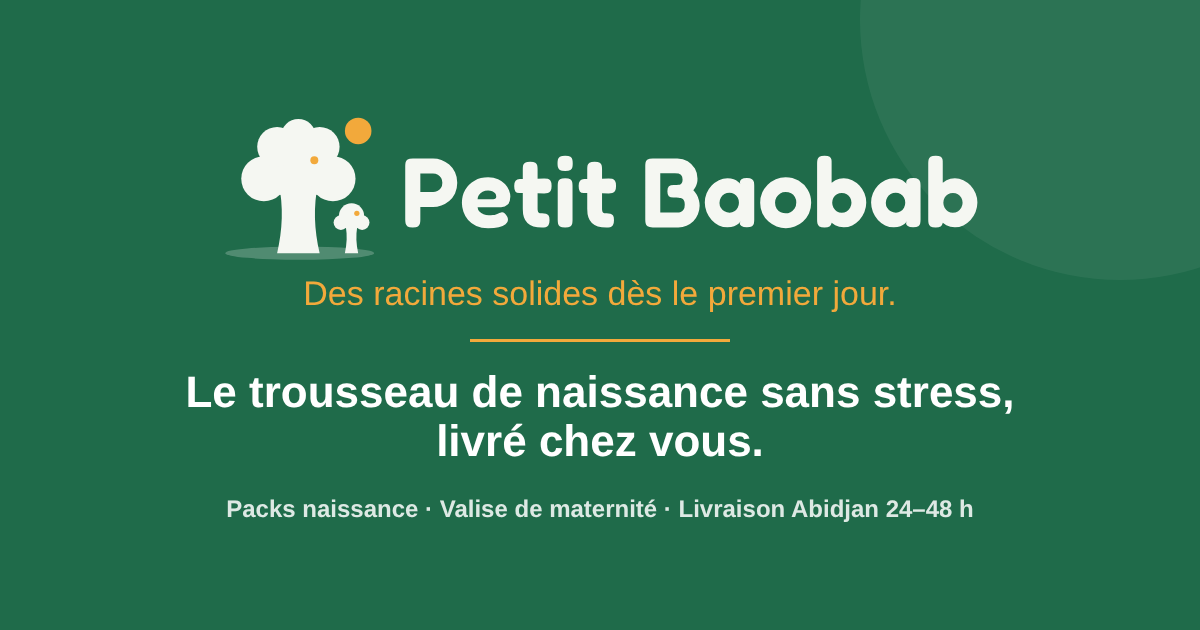
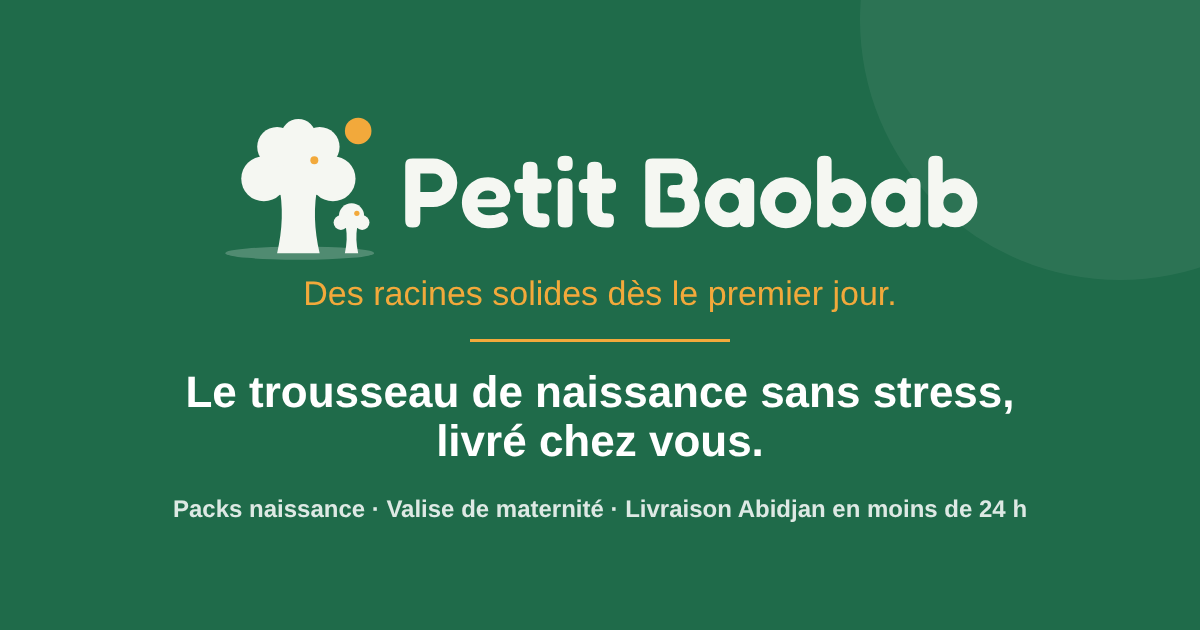
Livraison en moins de 24 h, paiement Wave ou Mobile Money, motion design au toucher
Claude-Session: https://claude.ai/code/session_01FXPZrepqSaMyiZVHaoN4qR

Changed region(s): [[0.1233, 0.7841, 0.8633, 0.8444]]

diff --git a/petit-baobab.html b/petit-baobab.html
@@ -675,6 +675,48 @@ html[data-theme="dark"] .footer .stars circle{opacity:.9;animation:lg-twinkle 2.
 @keyframes btn-shine{from{transform:translateX(-130%)}to{transform:translateX(130%)}}
 @media (prefers-reduced-motion: reduce){.footer .mark > g,.footer .stars circle{animation:none !important}}
 
+/* ===== touch-motion : sur téléphone et tablette, toucher = animer, plus un peu de vie permanente ===== */
+.pb-logo.still,.pb-logo.still *{animation:none !important}
+.hero-logo .pb-logo{cursor:pointer;-webkit-tap-highlight-color:transparent}
+@media (hover:none) and (prefers-reduced-motion: no-preference){
+  .logo .mark > g:nth-of-type(1){transform-origin:104px 18px}
+  .logo.tapped .mark > g:nth-of-type(1){animation:lg-hop .7s var(--spring)}
+  .logo .mark > g:nth-of-type(4){transform-origin:59px 58px}
+  .logo.tapped .mark > g:nth-of-type(4){animation:lg-shake .8s var(--ease)}
+  .logo .mark > g:nth-of-type(6),.logo .mark > g:nth-of-type(7),.logo .mark > g:nth-of-type(8){transform-origin:99px 110px}
+  .logo.tapped .mark > g:nth-of-type(6),.logo.tapped .mark > g:nth-of-type(7),.logo.tapped .mark > g:nth-of-type(8){animation:lg-jump .6s var(--spring) .15s}
+  .baobab-illus > g:nth-of-type(4){transform-origin:59px 58px;animation:lg-sway 6s ease-in-out infinite}
+  .baobab-illus > g:nth-of-type(7){transform-origin:99px 88px;animation:lg-sway 4.5s ease-in-out 1s infinite reverse}
+  .baobab-illus > g:nth-of-type(1){transform-origin:104px 18px;animation:pb-glow 5s ease-in-out infinite}
+  .baobab-illus.tapped > g:nth-of-type(1){animation:lg-hop .8s var(--spring)}
+  .baobab-illus.tapped > g:nth-of-type(6),.baobab-illus.tapped > g:nth-of-type(7),.baobab-illus.tapped > g:nth-of-type(8){transform-origin:99px 110px;animation:lg-jump .7s var(--spring)}
+  .card.tapped .add{animation:lg-quarter .5s var(--spring)}
+  .univ-card.tapped .num{animation:lg-spin .7s var(--spring)}
+  .univ-card.tapped .icon{animation:lg-up .5s var(--ease)}
+  .who-card.tapped .go svg{animation:lg-nudge .5s var(--spring)}
+  .who-card.tapped h3{letter-spacing:.07em;transition:letter-spacing .3s var(--ease)}
+  .chip.tapped,.value.tapped,.gift-box.tapped,.stage.tapped,.btn.tapped{animation:lg-press .45s var(--spring)}
+  .tstep.tapped .num{animation:lg-hop .6s var(--spring)}
+  .value.tapped h3 i{animation:lg-dot .5s var(--spring)}
+  .btn-primary{overflow:hidden}
+  .btn-primary::after{content:"";position:absolute;inset:0;background:linear-gradient(105deg,transparent 35%,rgba(255,255,255,.55) 50%,transparent 65%);transform:translateX(-130%);pointer-events:none}
+  .btn-primary.tapped::after{animation:btn-shine .8s var(--ease)}
+  .fab-wa .icon{animation:lg-ring-idle 7s ease-in-out 4s infinite}
+  .fab-wa.tapped .icon{animation:lg-ring .6s var(--ease)}
+  .fab-top.tapped .icon{animation:lg-up .6s var(--ease)}
+  .footer-scene.tapped .mark > g:nth-of-type(4){animation:lg-shake .8s var(--ease)}
+  .footer-scene.tapped .mark > g:nth-of-type(7){animation:lg-jump .6s var(--spring)}
+  .footer-brand.sun-tap .rays{opacity:1;transform:scale(1)}
+  .footer-brand.sun-tap .lg-sun > circle:first-of-type{transform:translateY(-4px) scale(1.15)}
+  .pb-logo .plx-sun,.pb-logo .plx-tree{transition:transform .6s var(--ease)}
+}
+@keyframes lg-spin{from{transform:rotate(0) scale(1)}60%{transform:rotate(360deg) scale(1.12)}to{transform:rotate(360deg) scale(1)}}
+@keyframes lg-quarter{0%{transform:none}50%{transform:rotate(90deg) scale(1.1)}100%{transform:none}}
+@keyframes lg-nudge{0%,100%{transform:none}50%{transform:translateX(6px)}}
+@keyframes lg-press{0%{transform:none}40%{transform:scale(.96)}100%{transform:none}}
+@keyframes lg-dot{0%,100%{transform:none}50%{transform:scale(1.6)}}
+@keyframes lg-ring-idle{0%,12%,100%{transform:rotate(0)}2%{transform:rotate(-14deg)}5%{transform:rotate(12deg)}8%{transform:rotate(-8deg)}10%{transform:rotate(5deg)}}
+
 .footer p{color:var(--footer-muted);font-size:.93rem;max-width:40ch}
 .footer h4{font-size:1rem;margin:0 0 8px;color:var(--accent);text-transform:uppercase;letter-spacing:.06em;font-size:.82rem}
 .footer ul{list-style:none;margin:0;padding:0;display:grid;gap:6px}
@@ -817,10 +859,10 @@ html[data-theme="dark"] .footer .stars circle{opacity:.9;animation:lg-twinkle 2.
   <ellipse class="seed" cx="198" cy="267" rx="5.5" ry="3.8"/>
 </svg><div class="word"><span style="--i:0">P</span><span style="--i:1">e</span><span style="--i:2">t</span><span style="--i:3">i</span><span style="--i:4">t</span><span style="--i:5">&nbsp;</span><span style="--i:6">B</span><span style="--i:7">a</span><span style="--i:8">o</span><span style="--i:9">b</span><span style="--i:10">a</span><span style="--i:11">b</span></div></div></div>
         <h1 class="plum-title hero-title">Le trousseau de naissance <em>sans stress</em>, livré chez vous.</h1>
-        <p class="lead">Packs naissance par budget, valise de maternité prête à partir et tout l'équipement de bébé, du premier jour aux premiers pas, avec les prix affichés. Vous commandez en ligne, on vous livre en 24 à 48 h.</p>
+        <p class="lead">Packs naissance par budget, valise de maternité prête à partir et tout l'équipement de bébé, du premier jour aux premiers pas, avec les prix affichés. Vous commandez en ligne, on vous livre à Abidjan en moins de 24 h.</p>
         <div class="cta-row"><a href="#packs" class="btn btn-primary" data-action="nav" data-view="packs">Voir les packs naissance</a></div>
       </div>
-      <div class="trust"><span>Livraison 24–48 h à Abidjan</span><span>Paiement à la livraison ou par Wave</span><span>Échange sous 48 h</span></div>
+      <div class="trust"><span>Livraison en moins de 24 h à Abidjan</span><span>Paiement à la livraison, par Wave ou Mobile Money</span><span>Échange sous 48 h</span></div>
     </div>
     <div class="plum-rule"></div>
   </div>
@@ -836,7 +878,7 @@ html[data-theme="dark"] .footer .stars circle{opacity:.9;animation:lg-twinkle 2.
   </div>
 
   <div class="wrap" style="padding-bottom:var(--sp-6)">
-    <div class="promise"><span class="kicker">Notre promesse</span><div class="promise-list"><span>Produits neufs sous emballage d'origine</span><span>Prix affichés, sans surprise</span><span>Conseils sur WhatsApp</span><span>Livraison Abidjan 24–48 h</span><span>Paiement à la livraison ou par Wave</span></div></div>
+    <div class="promise"><span class="kicker">Notre promesse</span><div class="promise-list"><span>Produits neufs sous emballage d'origine</span><span>Prix affichés, sans surprise</span><span>Conseils sur WhatsApp</span><span>Livraison à Abidjan en moins de 24 h</span><span>Paiement à la livraison, par Wave ou Mobile Money</span></div></div>
   </div>
 
   <div class="band">
@@ -872,7 +914,7 @@ html[data-theme="dark"] .footer .stars circle{opacity:.9;animation:lg-twinkle 2.
       <ol class="timeline">
         <li class="tstep"><span class="num">1</span><h3>Choisissez</h3><p>Ajoutez un pack ou des articles au panier, au prix affiché.</p></li>
         <li class="tstep"><span class="num">2</span><h3>Envoyez</h3><p>Votre commande part sur WhatsApp en un clic, avec sa référence. On la confirme avec vous.</p></li>
-        <li class="tstep"><span class="num">3</span><h3>Payez</h3><p>À la livraison, par lien Wave, ou avec un acompte de 50 %.</p></li>
+        <li class="tstep"><span class="num">3</span><h3>Payez</h3><p>À la livraison, par Wave ou Mobile Money, ou avec un acompte de 50 %.</p></li>
         <li class="tstep"><span class="num">4</span><h3>Recevez</h3><p>Livraison à domicile ou au bureau, dans toutes les communes d'Abidjan.</p></li>
       </ol>
     </div>
@@ -941,8 +983,8 @@ html[data-theme="dark"] .footer .stars circle{opacity:.9;animation:lg-twinkle 2.
         <ul class="work">
           <li><strong>Vous choisissez</strong>Les prix sont affichés, le contenu des packs est détaillé article par article.</li>
           <li><strong>On confirme avec vous</strong>Votre commande part sur WhatsApp avec sa référence. On valide ensemble les coloris et le créneau de livraison.</li>
-          <li><strong>Vous payez simplement</strong>À la livraison, par lien Wave, ou avec un acompte de 50 % et le solde à la réception.</li>
-          <li><strong>On livre vite</strong>En 24 à 48 h dans toutes les communes d'Abidjan, offert dès 100 000 FCFA, et par compagnie de transport dans le reste du pays.</li>
+          <li><strong>Vous payez simplement</strong>À la livraison, par Wave ou Mobile Money, ou avec un acompte de 50 % et le solde à la réception.</li>
+          <li><strong>On livre vite</strong>En moins de 24 h dans toutes les communes d'Abidjan, offert dès 100 000 FCFA, et par compagnie de transport dans le reste du pays.</li>
         </ul>
       </div>
     </div>
@@ -1144,10 +1186,10 @@ html[data-theme="dark"] .footer .stars circle{opacity:.9;animation:lg-twinkle 2.
     <div class="section-head"><h2>Questions fréquentes</h2></div>
     <details><summary>Comment passer commande ?<svg class="icon"><use href="#i-chev"/></svg></summary><p>Ajoutez vos articles au panier, puis cliquez sur « Envoyer la commande sur WhatsApp ». Le récapitulatif s'ouvre dans WhatsApp avec sa référence, vous n'avez plus qu'à l'envoyer. On vous répond pour confirmer les couleurs, les modèles et l'heure de livraison.</p></details>
     <details><summary>Puis-je modifier ou annuler ma commande ?<svg class="icon"><use href="#i-chev"/></svg></summary><p>Oui, dans les 24 heures qui suivent la commande : écrivez-nous sur WhatsApp avec votre référence (elle commence par PB-). Passé ce délai, la commande est en préparation ; un acompte déjà versé reste acquis si l'annulation vient de vous.</p></details>
-    <details><summary>Comment fonctionne l'acompte de 50 % ?<svg class="icon"><use href="#i-chev"/></svg></summary><p>Vous payez la moitié du total par lien Wave au moment de la commande, ce qui la réserve, puis le solde au livreur à la remise du colis. C'est pratique pour les gros articles comme un lit ou une poussette.</p></details>
-    <details><summary>Comment payer par Wave depuis le lien ?<svg class="icon"><use href="#i-chev"/></svg></summary><p>Ouvrez le lien reçu sur WhatsApp, le montant est déjà rempli, validez avec votre code Wave, puis envoyez-nous la capture d'écran de confirmation. Pas de compte Wave ? Dites-le nous, on vous propose un autre moyen.</p></details>
+    <details><summary>Comment fonctionne l'acompte de 50 % ?<svg class="icon"><use href="#i-chev"/></svg></summary><p>Vous payez la moitié du total par Wave ou Mobile Money au moment de la commande, ce qui la réserve, puis le solde au livreur à la remise du colis. C'est pratique pour les gros articles comme un lit ou une poussette.</p></details>
+    <details><summary>Comment payer à distance, par Wave ou Mobile Money ?<svg class="icon"><use href="#i-chev"/></svg></summary><p>On vous envoie sur WhatsApp le montant exact et le numéro à payer. Par Wave, ouvrez le lien reçu, le montant est déjà rempli, validez avec votre code. Par Orange Money, MTN MoMo ou Moov Money, faites le transfert vers notre numéro. Dans les deux cas, envoyez-nous la capture d'écran de confirmation.</p></details>
     <details><summary>Puis-je modifier le contenu d'un pack ?<svg class="icon"><use href="#i-chev"/></svg></summary><p>Oui. Précisez-le dans le message WhatsApp (par exemple remplacer les biberons par des bodys en plus). On ajuste le prix si nécessaire.</p></details>
-    <details><summary>Je vis à l'étranger, comment offrir un trousseau ?<svg class="icon"><use href="#i-chev"/></svg></summary><p>Choisissez le pack, cochez « C'est un cadeau » dans la commande et indiquez les coordonnées de la maman. On vous envoie un lien de paiement ; si vous n'avez pas de compte Wave, on vous indique sur WhatsApp les autres moyens de régler.</p></details>
+    <details><summary>Je vis à l'étranger, comment offrir un trousseau ?<svg class="icon"><use href="#i-chev"/></svg></summary><p>Choisissez le pack, cochez « C'est un cadeau » dans la commande et indiquez les coordonnées de la maman. On vous envoie le montant et le moyen de régler sur WhatsApp : Wave, Mobile Money, ou depuis l'étranger Western Union et Ria.</p></details>
     <details><summary>Les produits sont-ils neufs ?<svg class="icon"><use href="#i-chev"/></svg></summary><p>Oui, tous nos articles sont neufs, sous emballage d'origine, avec leurs notices.</p></details>
     <details><summary>Livrez-vous hors d'Abidjan ?<svg class="icon"><use href="#i-chev"/></svg></summary><p>Oui, partout en Côte d'Ivoire par compagnie de transport. Les frais dépendent de la ville ; on vous les confirme sur WhatsApp avant l'envoi.</p></details>
     <details><summary>Et si je ne suis pas là à la livraison ?<svg class="icon"><use href="#i-chev"/></svg></summary><p>Le livreur vous appelle avant d'arriver. Vous pouvez aussi indiquer une autre personne (mari, sœur, gardien) qui réceptionnera le colis.</p></details>
@@ -1175,9 +1217,9 @@ html[data-theme="dark"] .footer .stars circle{opacity:.9;animation:lg-twinkle 2.
         <div class="field">
           <span class="legend">Paiement</span>
           <div class="choices">
-            <label class="choice"><input type="radio" name="pay" id="pay-cod" value="livraison" checked><span><strong>À la livraison</strong><small>En espèces ou par Wave, au livreur.</small></span></label>
-            <label class="choice"><input type="radio" name="pay" id="pay-wave" value="wave"><span><strong>Par lien Wave, avant la livraison</strong><small>On vous envoie le lien du montant exact sur WhatsApp.</small></span></label>
-            <label class="choice"><input type="radio" name="pay" id="pay-deposit" value="acompte"><span><strong>Acompte de <span id="dep-pct">50</span> % par Wave, solde à la livraison</strong><small id="dep-note">Votre commande est réservée dès l'acompte reçu. Conseillé pour les gros articles.</small></span></label>
+            <label class="choice"><input type="radio" name="pay" id="pay-cod" value="livraison" checked><span><strong>À la livraison</strong><small>En espèces, par Wave ou Mobile Money, au livreur.</small></span></label>
+            <label class="choice"><input type="radio" name="pay" id="pay-wave" value="wave"><span><strong>Par Wave ou Mobile Money, avant la livraison</strong><small>On vous envoie le montant exact et le numéro à payer sur WhatsApp.</small></span></label>
+            <label class="choice"><input type="radio" name="pay" id="pay-deposit" value="acompte"><span><strong>Acompte de <span id="dep-pct">50</span> % par Wave ou Mobile Money, solde à la livraison</strong><small id="dep-note">Votre commande est réservée dès l'acompte reçu. Conseillé pour les gros articles.</small></span></label>
           </div>
         </div>
         <label class="toggle"><input type="checkbox" id="f-gift">C'est un cadeau pour une maman (livraison chez elle)</label>
@@ -1220,7 +1262,7 @@ html[data-theme="dark"] .footer .stars circle{opacity:.9;animation:lg-twinkle 2.
     <p class="updated">Dernière mise à jour : <span class="legal-date"></span></p>
     <p>Pour livrer votre commande, nous utilisons votre nom, votre numéro de téléphone et votre adresse de livraison. Ces informations servent uniquement à préparer, livrer et suivre votre commande.</p>
     <p>Nous ne vendons ni ne partageons vos coordonnées avec des tiers, en dehors du livreur qui a besoin de votre adresse et de votre numéro pour vous trouver.</p>
-    <p>Le site ne stocke aucune donnée bancaire. Le paiement se fait à la livraison ou par Wave, en dehors du site.</p>
+    <p>Le site ne stocke aucune donnée bancaire. Le paiement se fait à la livraison, par Wave ou par Mobile Money, en dehors du site.</p>
     <h3>Ce que votre navigateur conserve</h3>
     <p>Votre panier, vos favoris et vos préférences d'affichage sont gardés dans votre navigateur uniquement, sur votre appareil. Rien n'est envoyé à un serveur.</p>
     <p id="privacy-analytics" hidden>Avec votre accord, nous mesurons l'audience du site de façon anonyme. Vous pouvez changer d'avis à tout moment via le lien « Gérer les cookies » en bas de page.</p>
@@ -1237,8 +1279,8 @@ html[data-theme="dark"] .footer .stars circle{opacity:.9;animation:lg-twinkle 2.
     <p class="updated">Dernière mise à jour : <span class="legal-date"></span></p>
     <h3>Prix</h3><p>Les prix sont affichés en francs CFA, toutes taxes comprises. Les frais de livraison s'ajoutent selon la commune et sont indiqués avant l'envoi de la commande.</p>
     <h3>Commande</h3><p>Chaque commande reçoit une référence (PB-…). Une commande est ferme une fois confirmée sur WhatsApp par la boutique ; les articles sont réservés à ce moment-là. Vous pouvez la modifier ou l'annuler dans les 24 heures, sur WhatsApp, avec sa référence.</p>
-    <h3>Paiement</h3><p>À la livraison (espèces ou Wave), avant la livraison par lien de paiement Wave, ou par un acompte de 50 % à la commande et le solde à la livraison. Les commandes hors d'Abidjan et les cadeaux sont payés avant le départ du colis. En cas d'annulation de votre part après versement d'un acompte, celui-ci peut être conservé pour couvrir les frais engagés.</p>
-    <h3>Livraison</h3><p>À Abidjan sous 24 à 48 h après confirmation. Hors Abidjan, par compagnie de transport, selon les délais de celle-ci.</p>
+    <h3>Paiement</h3><p>À la livraison (espèces, Wave ou Mobile Money), avant la livraison par Wave ou Mobile Money, ou par un acompte de 50 % à la commande et le solde à la livraison. Les commandes hors d'Abidjan et les cadeaux sont payés avant le départ du colis. En cas d'annulation de votre part après versement d'un acompte, celui-ci peut être conservé pour couvrir les frais engagés.</p>
+    <h3>Livraison</h3><p>À Abidjan en moins de 24 h après confirmation. Hors Abidjan, par compagnie de transport, selon les délais de celle-ci.</p>
     <h3>Échanges</h3><p>Un article abîmé ou non conforme est échangé sous 48 h après réception, dans son emballage d'origine, sur présentation d'une photo.</p>
     <h3>Contact</h3><p>Pour toute question : WhatsApp au <span class="wa-num"></span>.</p>
     <p>L'utilisation du site lui-même est régie par les <a href="#cgu" class="textlink" data-action="nav" data-view="cgu">Conditions d'utilisation</a>.</p>
@@ -1258,7 +1300,7 @@ html[data-theme="dark"] .footer .stars circle{opacity:.9;animation:lg-twinkle 2.
     <h3>Utilisation du site</h3><p>Le site est destiné à un usage personnel. Il est interdit de copier le catalogue, les photos ou les textes pour les réutiliser ailleurs, d'essayer de perturber le fonctionnement du site, ou d'utiliser les coordonnées qui y figurent pour de la prospection.</p>
     <h3>Propriété des contenus</h3><p>Le nom, les textes et la mise en page du site appartiennent à son éditeur. Les photos et références des articles appartiennent à l'éditeur ou à ses fournisseurs. Toute reproduction demande notre accord écrit.</p>
     <h3>Vos données</h3><p>Votre panier, vos favoris et vos préférences d'affichage restent dans votre navigateur. Les informations que vous nous envoyez pour une commande sont traitées comme décrit dans la <a href="#confidentialite" class="textlink" data-action="nav" data-view="confidentialite">Politique de confidentialité</a>.</p>
-    <h3>Services tiers</h3><p>Le site renvoie vers WhatsApp pour la commande et vers Wave pour le paiement à distance. Ces services ont leurs propres conditions et fonctionnent indépendamment de nous.</p>
+    <h3>Services tiers</h3><p>Le site renvoie vers WhatsApp pour la commande et vers Wave ou les opérateurs de Mobile Money pour le paiement à distance. Ces services ont leurs propres conditions et fonctionnent indépendamment de nous.</p>
     <h3>Comptes clients</h3><p>Lorsque les comptes seront disponibles, chaque personne n'en créera qu'un, avec des informations exactes, et gardera son mot de passe confidentiel. Un compte utilisé de façon abusive pourra être fermé.</p>
     <h3>Responsabilité</h3><p>Nous faisons notre possible pour que les informations du site soient justes et à jour. Nous ne pouvons pas être tenus responsables d'une interruption du site, d'un problème de réseau ou d'un usage du site contraire à ces conditions.</p>
     <h3>Droit applicable</h3><p>Ces conditions sont soumises au droit ivoirien. En cas de désaccord, nous cherchons d'abord une solution ensemble, sur WhatsApp au <span class="wa-num"></span>. À défaut, les tribunaux compétents d'Abidjan pourront être saisis.</p>
@@ -1280,9 +1322,9 @@ html[data-theme="dark"] .footer .stars circle{opacity:.9;animation:lg-twinkle 2.
 </main>
 
 <section class="reassure-band" aria-label="Nos engagements"><div class="wrap">
-  <div class="item"><span class="ico"><svg class="icon"><use href="#i-truck"/></svg></span><div><strong>Livraison 24 à 48 h à Abidjan</strong><span>Toutes les communes, offerte dès <span class="free-from"></span>. Envoi par car dans le reste du pays.</span></div></div>
+  <div class="item"><span class="ico"><svg class="icon"><use href="#i-truck"/></svg></span><div><strong>Livraison en moins de 24 h à Abidjan</strong><span>Toutes les communes, offerte dès <span class="free-from"></span>. Envoi par car dans le reste du pays.</span></div></div>
   <div class="item"><span class="ico"><svg class="icon"><use href="#i-check"/></svg></span><div><strong>Vous vérifiez avant de payer</strong><span>L'article est déballé devant vous à la livraison. Échange sous 48 h en cas de défaut.</span></div></div>
-  <div class="item"><span class="ico"><svg class="icon"><use href="#i-wallet"/></svg></span><div><strong>Paiement simple</strong><span>Espèces ou Wave à la livraison, lien Wave, ou acompte et solde à la réception.</span></div></div>
+  <div class="item"><span class="ico"><svg class="icon"><use href="#i-wallet"/></svg></span><div><strong>Paiement simple</strong><span>Espèces, Wave ou Mobile Money à la livraison, paiement à distance, ou acompte et solde à la réception.</span></div></div>
   <div class="item"><span class="ico"><svg class="icon"><use href="#i-chat"/></svg></span><div><strong>Un conseil sur WhatsApp</strong><span>Avant d'acheter comme après, <span class="hours"></span>.</span></div></div>
 </div></section>
 <footer class="footer">
@@ -1360,7 +1402,7 @@ var CONFIG = {
   phones: [],                          // autres numéros à afficher en pied de page, si tu en as (ex. ['05 00 00 00 00'])
   hours: 'tous les jours de 8 h à 21 h',
   freeDeliveryFrom: 100000,            // livraison offerte à Abidjan à partir de ce montant
-  stock: { defaut: 'En stock à Abidjan, livré sous 24 à 48 h', commande: 'Sur commande, 6 à 8 semaines (arrive par le prochain conteneur)' },   // un article peut porter stock:'commande'
+  stock: { defaut: 'En stock à Abidjan, livré en moins de 24 h', commande: 'Sur commande, 6 à 8 semaines (arrive par le prochain conteneur)' },   // un article peut porter stock:'commande'
   deposit: { rate: 0.5, bigRate: 0.3, bigFrom: 150000 },   // acompte 50 % en général, 30 % à partir de 150 000 FCFA (lits, packs)
   zones: [
     ['Cocody', 1500], ['Plateau', 1500], ['Marcory', 1500], ['Treichville', 1500], ['Adjamé', 1500],
@@ -1368,7 +1410,7 @@ var CONFIG = {
     ['Bingerville', 2500], ['Anyama', 2500], ['Songon', 2500],
     ['Hors Abidjan (envoi par car)', null]
   ],
-  payments: { surPlace: 'en espèces ou par Wave, au livreur', avance: 'par lien Wave', etranger: ['lien Wave', 'Western Union', 'Ria Money Transfer'] },  // à ajuster selon ce que tu acceptes vraiment
+  payments: { surPlace: 'en espèces, par Wave ou Mobile Money, au livreur', avance: 'par Wave ou Mobile Money (Orange Money, MTN MoMo, Moov Money)', etranger: ['Wave', 'Mobile Money', 'Western Union', 'Ria Money Transfer'] },
   social: { instagram: '', tiktok: '' },  // adresses complètes des comptes, si tu veux les afficher
   legalUpdated: '2026-10-22',
   company: { name: '', rccm: '', address: '' },   // raison sociale et RCCM : apparaissent en bas des pages légales une fois renseignés
@@ -1377,7 +1419,7 @@ var CONFIG = {
 
 /* Adresses des pages (une vraie URL par page une fois le site construit pour Netlify) */
 var ROUTES = {
-  accueil:         { path: '/', nav: 'Accueil', title: 'Petit Baobab · Packs naissance et équipement bébé livrés à Abidjan', description: 'Packs naissance par budget, valise de maternité prête à partir et tout l\'équipement de bébé, prix affichés. Commande en ligne, livraison à Abidjan en 24 à 48 h, paiement à la livraison ou par Wave.' },
+  accueil:         { path: '/', nav: 'Accueil', title: 'Petit Baobab · Packs naissance et équipement bébé livrés à Abidjan', description: 'Packs naissance par budget, valise de maternité prête à partir et tout l\'équipement de bébé, prix affichés. Commande en ligne, livraison à Abidjan en moins de 24 h, paiement à la livraison, par Wave ou Mobile Money.' },
   boutique:        { path: '/boutique/', nav: 'Boutique', title: 'Boutique puériculture en ligne à Abidjan · Petit Baobab', description: 'Près de 600 articles de puériculture avec les prix en FCFA : lits, poussettes, sièges auto, balancelles, biberons, bain, vêtements, rangement. Livraison à Abidjan.' },
   dort:            { path: '/bebe-dort/', nav: 'Bébé dort', univers: 'dort', title: 'Bébé dort : lits bébé, berceaux, lits parapluie, moustiquaires · Petit Baobab', description: 'Lits bébé en bois, berceaux cododo, lits parapluie, moustiquaires, couvertures et nids d\'ange, livrés à Abidjan. Conseils pour un sommeil paisible dès la naissance.' },
   balade:          { path: '/bebe-en-balade/', nav: 'Bébé en balade', univers: 'balade', title: 'Bébé en balade : poussettes, porte-bébés, sacs à langer · Petit Baobab', description: 'Poussettes compactes, combinées 3 en 1, doubles, porte-bébés ergonomiques et sacs à langer, livrés à Abidjan.' },
@@ -1387,14 +1429,14 @@ var ROUTES = {
   soigne:          { path: '/bebe-soigne/', nav: 'Bébé soigné', univers: 'soigne', title: 'Bébé soigné : bain, change, hygiène, tables à langer · Petit Baobab', description: 'Baignoires, tables à langer, sets de bain, lingettes, cotons-tiges et soins quotidiens, livrés à Abidjan.' },
   habille:         { path: '/bebe-habille/', nav: 'Bébé habillé', univers: 'habille', title: 'Bébé habillé : layette, packs naissance, vêtements · Petit Baobab', description: 'Packs naissance, valise de maternité, layette, ensembles bébé, chaussettes et chaussons, livrés à Abidjan.' },
   maison:          { path: '/bebe-a-la-maison/', nav: 'Bébé à la maison', univers: 'maison', title: 'Bébé à la maison : armoires, commodes, rangement · Petit Baobab', description: 'Armoires et commodes bébé, chariots et paniers de rangement, accessoires pour la chambre, livrés à Abidjan.' },
-  packs:           { path: '/packs-naissance/', nav: 'Packs naissance', title: 'Packs naissance à 50 000, 100 000 et 150 000 FCFA · Petit Baobab', description: 'Trois packs naissance complets, contenu détaillé et prix affichés, livrés à Abidjan en 24 à 48 h.' },
+  packs:           { path: '/packs-naissance/', nav: 'Packs naissance', title: 'Packs naissance à 50 000, 100 000 et 150 000 FCFA · Petit Baobab', description: 'Trois packs naissance complets, contenu détaillé et prix affichés, livrés à Abidjan en moins de 24 h.' },
   valise:          { path: '/valise-maternite/', nav: 'Valise maternité', title: 'Valise de maternité prête à partir · Petit Baobab', description: 'La valise de maternité pour maman et bébé, déjà réunie, avec la liste de contrôle pour le jour J. Livraison à Abidjan.' },
   liste:           { path: '/liste-de-naissance/', nav: 'Liste de naissance', title: 'Liste de naissance en ligne, à partager sur WhatsApp · Petit Baobab', description: 'Composez votre liste de naissance parmi près de 600 articles, partagez le lien sur WhatsApp : vos proches offrent exactement ce qu\'il vous faut, livré chez vous à Abidjan.' },
   cadeaux:         { path: '/cadeaux-de-naissance/', nav: 'Cadeaux', title: 'Offrir un cadeau de naissance à Abidjan · Petit Baobab', description: 'Idées de cadeaux de naissance par budget et par style, emballage offert, et trousseau offert à distance depuis l\'étranger, livré chez la maman à Abidjan.' },
-  histoire:        { path: '/notre-histoire/', nav: 'Notre histoire', title: 'Notre histoire : pourquoi Petit Baobab · Petit Baobab', description: 'Le baobab est solide, protecteur et il dure : c\'est ce que nous voulons pour votre bébé. Une boutique de puériculture 100 % en ligne à Abidjan, des prix affichés, un conseil sur WhatsApp et une livraison en 24 à 48 h.' },
+  histoire:        { path: '/notre-histoire/', nav: 'Notre histoire', title: 'Notre histoire : pourquoi Petit Baobab · Petit Baobab', description: 'Le baobab est solide, protecteur et il dure : c\'est ce que nous voulons pour votre bébé. Une boutique de puériculture 100 % en ligne à Abidjan, des prix affichés, un conseil sur WhatsApp et une livraison en moins de 24 h.' },
   conseils:        { path: '/conseils/', nav: 'Conseils', title: 'Conseils d\'achat : lit, siège auto, poussette, valise de maternité, chambre, biberons · Petit Baobab', description: 'Six guides courts pour bien choisir l\'équipement de bébé à Abidjan : le lit, le siège auto selon l\'âge, la poussette, la valise de maternité, la chambre et les premiers biberons.' },
   guide:           { path: '/que-prevoir-mois-par-mois/', nav: 'Guide', title: 'Que prévoir pour bébé mois par mois ? · Petit Baobab', description: 'Le guide pratique de 0 à 24 mois : l\'essentiel à prévoir, le confort en plus et nos astuces, étape par étape.' },
-  livraison:       { path: '/livraison-et-paiement/', nav: 'Livraison & paiement', title: 'Livraison, paiement et questions fréquentes · Petit Baobab', description: 'Frais de livraison par commune d\'Abidjan, livraison offerte dès 100 000 FCFA, paiement à la livraison, par lien Wave ou acompte de 50 %, échanges sous 48 h.' },
+  livraison:       { path: '/livraison-et-paiement/', nav: 'Livraison & paiement', title: 'Livraison, paiement et questions fréquentes · Petit Baobab', description: 'Frais de livraison par commune d\'Abidjan, livraison offerte dès 100 000 FCFA, paiement à la livraison, par Wave ou Mobile Money, ou acompte de 50 %, échanges sous 48 h.' },
   commande:        { path: '/commande/', nav: 'Commande', title: 'Votre commande · Petit Baobab', description: 'Finalisez votre commande et envoyez-la sur WhatsApp.', noindex: true },
   confidentialite: { path: '/confidentialite/', nav: 'Confidentialité', title: 'Politique de confidentialité · Petit Baobab', description: 'Les données utilisées pour livrer votre commande et vos droits.' },
   cgv:             { path: '/conditions-de-vente/', nav: 'Conditions de vente', title: 'Conditions de vente · Petit Baobab', description: 'Prix, commande, paiement, livraison et échanges.' },
@@ -1411,7 +1453,7 @@ var PAGES_INDEX = [
   { view:'guide', kw:'guide mois par mois prévoir âge nouveau-né éveil marche' },
   { view:'conseils', kw:'conseils guide d\'achat choisir lit siège auto poussette valise maternité chambre biberons bien choisir' },
   { view:'histoire', kw:'histoire marque nom baobab pourquoi valeurs promesse qui sommes-nous à propos' },
-  { view:'livraison', kw:'livraison frais commune délai paiement wave espèces acompte retour échange questions' },
+  { view:'livraison', kw:'livraison frais commune délai paiement wave mobile money orange mtn moov espèces acompte retour échange questions' },
   { view:'cgv', kw:'conditions vente cgv prix' },
   { view:'cgu', kw:'conditions utilisation cgu règles site propriété responsabilité' },
   { view:'confidentialite', kw:'confidentialité données cookies' }
@@ -2209,7 +2251,7 @@ function reassure(){
   return '<ul class="reassure"><li>' + icon('check') + '<span>Livraison dans toutes les communes d\'Abidjan, offerte dès ' + fmt(CONFIG.freeDeliveryFrom) + '</span></li>' +
     '<li>' + icon('check') + '<span>Vous vérifiez l\'article à la livraison avant de payer</span></li>' +
     '<li>' + icon('check') + '<span>Échange sous 48 h en cas de défaut</span></li>' +
-    '<li>' + icon('check') + '<span>Espèces ou Wave à la livraison, lien Wave, ou acompte et solde à la réception</span></li></ul>';
+    '<li>' + icon('check') + '<span>Espèces, Wave ou Mobile Money à la livraison, ou acompte et solde à la réception</span></li></ul>';
 }
 function bandById(id){ return AGE_BANDS.filter(function(b){ return b.id===id; })[0]; }
 function priceBandById(id){ return PRICE_BANDS.filter(function(b){ return b.id===id; })[0]; }
@@ -2426,7 +2468,7 @@ function buildMessage(){
   var zone = val('f-zone'), fee = zoneFee(zone, sub);
   var gift = $('#f-gift').checked;
   var total = sub + fee.fee, dep = depositFor(total), half = Math.ceil(total*dep.rate/100)*100;
-  var pay = $('#pay-wave').checked ? 'Par lien Wave avant la livraison' : $('#pay-deposit').checked ? 'Acompte de ' + dep.pct + ' % par lien Wave (' + fmt(half) + (fee.known ? '' : ' + ' + dep.pct + ' % de la livraison') + '), solde à la livraison' : 'À la livraison';
+  var pay = $('#pay-wave').checked ? 'Par Wave ou Mobile Money avant la livraison' : $('#pay-deposit').checked ? 'Acompte de ' + dep.pct + ' % par Wave ou Mobile Money (' + fmt(half) + (fee.known ? '' : ' + ' + dep.pct + ' % de la livraison') + '), solde à la livraison' : 'À la livraison';
   if (!state.ref) state.ref = orderRef();
   var L = [];
   L.push('Bonjour ' + CONFIG.brand + ' 👋');
@@ -2739,6 +2781,32 @@ if (document.fonts && document.fonts.ready) document.fonts.ready.then(measureHea
     });
     box.addEventListener('mouseleave', function(){ card.classList.remove('tilting'); card.style.setProperty('--rx', '0deg'); card.style.setProperty('--ry', '0deg'); });
   });
+})();
+/* ===== touch-motion : toucher = animer, le baobab repousse, le soleil suit le défilement ===== */
+(function(){
+  if (!window.matchMedia || window.matchMedia('(prefers-reduced-motion: reduce)').matches) return;
+  var logo = $('.hero-logo .pb-logo');
+  if (logo) logo.addEventListener('click', function(){ logo.classList.add('still'); void logo.offsetWidth; logo.classList.remove('still'); });
+  if (!window.matchMedia('(hover:none)').matches) return;
+  var SEL = '.logo,.baobab-illus,.card,.univ-card,.who-card,.chip,.btn,.value,.gift-box,.stage,.tstep,.fab-wa,.fab-top,.footer-scene';
+  var pend = null;
+  function fire(el){ el.classList.remove('tapped'); void el.offsetWidth; el.classList.add('tapped'); clearTimeout(el._tapT); el._tapT = setTimeout(function(){ el.classList.remove('tapped'); }, 1000); }
+  document.addEventListener('pointerdown', function(e){
+    if (e.pointerType === 'mouse') return;
+    var el = e.target.closest(SEL); if (!el) return;
+    pend = { el: el, x: e.clientX, y: e.clientY, t: setTimeout(function(){ if (pend) { fire(pend.el); pend = null; } }, 90) };
+  }, {passive:true});
+  document.addEventListener('pointermove', function(e){ if (pend && Math.hypot(e.clientX - pend.x, e.clientY - pend.y) > 8) { clearTimeout(pend.t); pend = null; } }, {passive:true});
+  document.addEventListener('pointerup', function(){ if (pend) { clearTimeout(pend.t); fire(pend.el); pend = null; } }, {passive:true});
+  document.addEventListener('pointercancel', function(){ if (pend) { clearTimeout(pend.t); pend = null; } }, {passive:true});
+  var sun = $('.sun-toggle'), fb = $('.footer-brand');
+  if (sun && fb) sun.addEventListener('pointerdown', function(){ fb.classList.add('sun-tap'); setTimeout(function(){ fb.classList.remove('sun-tap'); }, 900); }, {passive:true});
+  var hero = $('#v-accueil .plum');
+  if (hero && logo){
+    var raf = null;
+    var onS = function(){ if (raf) return; raf = requestAnimationFrame(function(){ raf = null; var y = Math.max(0, Math.min(1, window.scrollY / Math.max(1, hero.offsetHeight))); logo.style.setProperty('--py', (y * 3).toFixed(3)); logo.style.setProperty('--px', (y * 1.2).toFixed(3)); }); };
+    window.addEventListener('scroll', onS, {passive:true}); onS();
+  }
 })();
 })();
 </script>

diff --git a/build.js b/build.js
@@ -51,7 +51,7 @@ function jsonld(view) {
     telephone: tel,
     contactPoint: { '@type': 'ContactPoint', contactType: 'customer service', telephone: tel, availableLanguage: 'fr' },
     areaServed: { '@type': 'Country', name: 'Côte d\'Ivoire' },
-    priceRange: '600 – 550 000 FCFA', currenciesAccepted: 'XOF', paymentAccepted: 'Espèces, Wave',
+    priceRange: '600 – 550 000 FCFA', currenciesAccepted: 'XOF', paymentAccepted: 'Espèces, Wave, Mobile Money (Orange Money, MTN MoMo, Moov Money)',
     sameAs: [CONFIG.social && CONFIG.social.instagram, CONFIG.social && CONFIG.social.tiktok].filter(Boolean)
   };
   const website = {
@@ -178,7 +178,7 @@ fs.writeFileSync(path.join(OUT, 'llms.txt'), `# ${CONFIG.brand}
 
 > ${ROUTES.accueil.description}
 
-Boutique de puériculture en ligne à Abidjan (Côte d'Ivoire) : packs naissance par budget, valise de maternité et équipement de bébé classé en 8 univers. Commande sur le site, envoi du récapitulatif sur WhatsApp (${phoneDisplay}) avec une référence de commande, paiement à la livraison (espèces ou Wave), par lien Wave avant livraison, ou acompte de 50 % et solde à la livraison. Livraison à Abidjan en 24 à 48 h, offerte dès ${CONFIG.freeDeliveryFrom.toLocaleString('fr-FR')} FCFA ; envoi par compagnie de transport dans le reste du pays. Échange sous 48 h en cas de défaut. Horaires WhatsApp : tous les jours de 8 h à 21 h.
+Boutique de puériculture en ligne à Abidjan (Côte d'Ivoire) : packs naissance par budget, valise de maternité et équipement de bébé classé en 8 univers. Commande sur le site, envoi du récapitulatif sur WhatsApp (${phoneDisplay}) avec une référence de commande, paiement à la livraison (espèces, Wave ou Mobile Money), par Wave ou Mobile Money avant livraison, ou acompte de 50 % et solde à la livraison. Livraison à Abidjan en moins de 24 h, offerte dès ${CONFIG.freeDeliveryFrom.toLocaleString('fr-FR')} FCFA ; envoi par compagnie de transport dans le reste du pays. Échange sous 48 h en cas de défaut. Horaires WhatsApp : tous les jours de 8 h à 21 h.
 
 ## La marque
 
@@ -249,7 +249,7 @@ async function renderImages() {
   <div style="font-size:34px;font-weight:500;color:#F2A93B;margin-top:8px">Des racines solides dès le premier jour.</div>
   <div style="width:260px;height:3px;background:#F2A93B;margin:26px auto"></div>
   <div style="font-size:44px;font-weight:600;line-height:1.1">Le trousseau de naissance sans stress,<br>livré chez vous.</div>
-  <div style="font-family:'Nunito Sans',Arial,sans-serif;font-size:24px;font-weight:600;opacity:.85;margin-top:30px">Packs naissance · Valise de maternité · Livraison Abidjan 24–48 h</div>
+  <div style="font-family:'Nunito Sans',Arial,sans-serif;font-size:24px;font-weight:600;opacity:.85;margin-top:30px">Packs naissance · Valise de maternité · Livraison Abidjan en moins de 24 h</div>
 </body></html>`);
   await page.waitForTimeout(800);
   await page.screenshot({ path: path.join(OUT, 'og-image.png') });

diff --git a/brand/touch.py b/brand/touch.py
@@ -1,0 +1,92 @@
+"""Motion design sur téléphone et tablette : le doigt remplace la souris.
+   - toucher un élément déclenche la même micro-animation que le survol (classe .tapped pendant 1 s, annulée si le doigt fait défiler),
+   - toucher le baobab du haut de page le fait repousser (toutes plateformes),
+   - le soleil du haut de page se couche quand on fait défiler la page (téléphone),
+   - toucher le soleil du pied de page fait jaillir les rayons avant de passer en mode nuit,
+   - un peu de vie permanente : l'illustration de « Notre histoire » respire, le bouton WhatsApp s'agite toutes les 7 s.
+   Idempotent : relancer ne double rien."""
+import os
+HERE = os.path.dirname(os.path.abspath(__file__))
+p = os.path.join(HERE, '..', 'petit-baobab.html'); s = open(p, encoding='utf-8').read()
+if 'touch-motion' in s:
+    print('déjà en place'); raise SystemExit
+
+CSS = '''
+/* ===== touch-motion : sur téléphone et tablette, toucher = animer, plus un peu de vie permanente ===== */
+.pb-logo.still,.pb-logo.still *{animation:none !important}
+.hero-logo .pb-logo{cursor:pointer;-webkit-tap-highlight-color:transparent}
+@media (hover:none) and (prefers-reduced-motion: no-preference){
+  .logo .mark > g:nth-of-type(1){transform-origin:104px 18px}
+  .logo.tapped .mark > g:nth-of-type(1){animation:lg-hop .7s var(--spring)}
+  .logo .mark > g:nth-of-type(4){transform-origin:59px 58px}
+  .logo.tapped .mark > g:nth-of-type(4){animation:lg-shake .8s var(--ease)}
+  .logo .mark > g:nth-of-type(6),.logo .mark > g:nth-of-type(7),.logo .mark > g:nth-of-type(8){transform-origin:99px 110px}
+  .logo.tapped .mark > g:nth-of-type(6),.logo.tapped .mark > g:nth-of-type(7),.logo.tapped .mark > g:nth-of-type(8){animation:lg-jump .6s var(--spring) .15s}
+  .baobab-illus > g:nth-of-type(4){transform-origin:59px 58px;animation:lg-sway 6s ease-in-out infinite}
+  .baobab-illus > g:nth-of-type(7){transform-origin:99px 88px;animation:lg-sway 4.5s ease-in-out 1s infinite reverse}
+  .baobab-illus > g:nth-of-type(1){transform-origin:104px 18px;animation:pb-glow 5s ease-in-out infinite}
+  .baobab-illus.tapped > g:nth-of-type(1){animation:lg-hop .8s var(--spring)}
+  .baobab-illus.tapped > g:nth-of-type(6),.baobab-illus.tapped > g:nth-of-type(7),.baobab-illus.tapped > g:nth-of-type(8){transform-origin:99px 110px;animation:lg-jump .7s var(--spring)}
+  .card.tapped .add{animation:lg-quarter .5s var(--spring)}
+  .univ-card.tapped .num{animation:lg-spin .7s var(--spring)}
+  .univ-card.tapped .icon{animation:lg-up .5s var(--ease)}
+  .who-card.tapped .go svg{animation:lg-nudge .5s var(--spring)}
+  .who-card.tapped h3{letter-spacing:.07em;transition:letter-spacing .3s var(--ease)}
+  .chip.tapped,.value.tapped,.gift-box.tapped,.stage.tapped,.btn.tapped{animation:lg-press .45s var(--spring)}
+  .tstep.tapped .num{animation:lg-hop .6s var(--spring)}
+  .value.tapped h3 i{animation:lg-dot .5s var(--spring)}
+  .btn-primary{overflow:hidden}
+  .btn-primary::after{content:"";position:absolute;inset:0;background:linear-gradient(105deg,transparent 35%,rgba(255,255,255,.55) 50%,transparent 65%);transform:translateX(-130%);pointer-events:none}
+  .btn-primary.tapped::after{animation:btn-shine .8s var(--ease)}
+  .fab-wa .icon{animation:lg-ring-idle 7s ease-in-out 4s infinite}
+  .fab-wa.tapped .icon{animation:lg-ring .6s var(--ease)}
+  .fab-top.tapped .icon{animation:lg-up .6s var(--ease)}
+  .footer-scene.tapped .mark > g:nth-of-type(4){animation:lg-shake .8s var(--ease)}
+  .footer-scene.tapped .mark > g:nth-of-type(7){animation:lg-jump .6s var(--spring)}
+  .footer-brand.sun-tap .rays{opacity:1;transform:scale(1)}
+  .footer-brand.sun-tap .lg-sun > circle:first-of-type{transform:translateY(-4px) scale(1.15)}
+  .pb-logo .plx-sun,.pb-logo .plx-tree{transition:transform .6s var(--ease)}
+}
+@keyframes lg-spin{from{transform:rotate(0) scale(1)}60%{transform:rotate(360deg) scale(1.12)}to{transform:rotate(360deg) scale(1)}}
+@keyframes lg-quarter{0%{transform:none}50%{transform:rotate(90deg) scale(1.1)}100%{transform:none}}
+@keyframes lg-nudge{0%,100%{transform:none}50%{transform:translateX(6px)}}
+@keyframes lg-press{0%{transform:none}40%{transform:scale(.96)}100%{transform:none}}
+@keyframes lg-dot{0%,100%{transform:none}50%{transform:scale(1.6)}}
+@keyframes lg-ring-idle{0%,12%,100%{transform:rotate(0)}2%{transform:rotate(-14deg)}5%{transform:rotate(12deg)}8%{transform:rotate(-8deg)}10%{transform:rotate(5deg)}}
+'''
+anchor_css = "@media (prefers-reduced-motion: reduce){.footer .mark > g,.footer .stars circle{animation:none !important}}\n"
+assert s.count(anchor_css) == 1
+s = s.replace(anchor_css, anchor_css + CSS)
+
+JS = '''/* ===== touch-motion : toucher = animer, le baobab repousse, le soleil suit le défilement ===== */
+(function(){
+  if (!window.matchMedia || window.matchMedia('(prefers-reduced-motion: reduce)').matches) return;
+  var logo = $('.hero-logo .pb-logo');
+  if (logo) logo.addEventListener('click', function(){ logo.classList.add('still'); void logo.offsetWidth; logo.classList.remove('still'); });
+  if (!window.matchMedia('(hover:none)').matches) return;
+  var SEL = '.logo,.baobab-illus,.card,.univ-card,.who-card,.chip,.btn,.value,.gift-box,.stage,.tstep,.fab-wa,.fab-top,.footer-scene';
+  var pend = null;
+  function fire(el){ el.classList.remove('tapped'); void el.offsetWidth; el.classList.add('tapped'); clearTimeout(el._tapT); el._tapT = setTimeout(function(){ el.classList.remove('tapped'); }, 1000); }
+  document.addEventListener('pointerdown', function(e){
+    if (e.pointerType === 'mouse') return;
+    var el = e.target.closest(SEL); if (!el) return;
+    pend = { el: el, x: e.clientX, y: e.clientY, t: setTimeout(function(){ if (pend) { fire(pend.el); pend = null; } }, 90) };
+  }, {passive:true});
+  document.addEventListener('pointermove', function(e){ if (pend && Math.hypot(e.clientX - pend.x, e.clientY - pend.y) > 8) { clearTimeout(pend.t); pend = null; } }, {passive:true});
+  document.addEventListener('pointerup', function(){ if (pend) { clearTimeout(pend.t); fire(pend.el); pend = null; } }, {passive:true});
+  document.addEventListener('pointercancel', function(){ if (pend) { clearTimeout(pend.t); pend = null; } }, {passive:true});
+  var sun = $('.sun-toggle'), fb = $('.footer-brand');
+  if (sun && fb) sun.addEventListener('pointerdown', function(){ fb.classList.add('sun-tap'); setTimeout(function(){ fb.classList.remove('sun-tap'); }, 900); }, {passive:true});
+  var hero = $('#v-accueil .plum');
+  if (hero && logo){
+    var raf = null;
+    var onS = function(){ if (raf) return; raf = requestAnimationFrame(function(){ raf = null; var y = Math.max(0, Math.min(1, window.scrollY / Math.max(1, hero.offsetHeight))); logo.style.setProperty('--py', (y * 3).toFixed(3)); logo.style.setProperty('--px', (y * 1.2).toFixed(3)); }); };
+    window.addEventListener('scroll', onS, {passive:true}); onS();
+  }
+})();
+'''
+anchor_js = "  });\n})();\n})();\n</script>"
+assert s.count(anchor_js) == 1
+s = s.replace(anchor_js, "  });\n})();\n" + JS + "})();\n</script>")
+open(p, 'w', encoding='utf-8').write(s)
+print('touch-motion en place')
